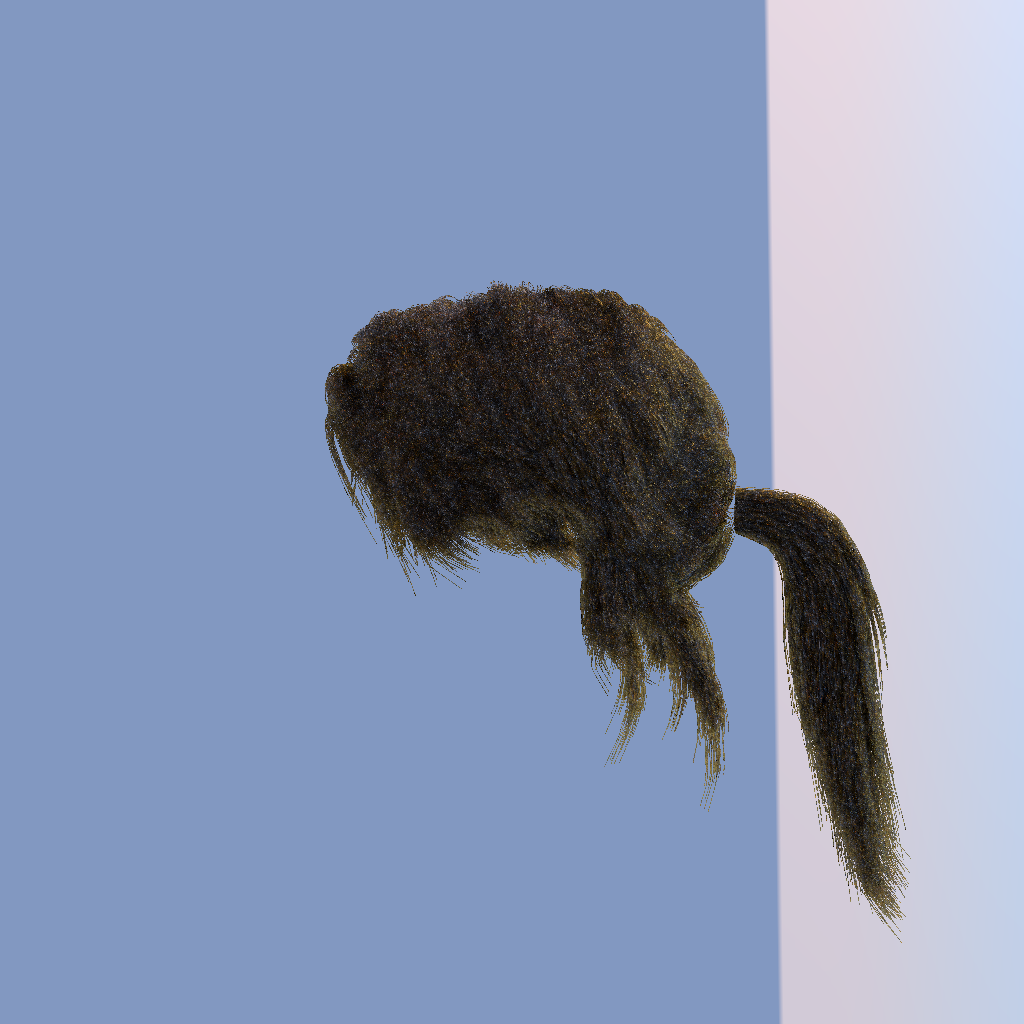
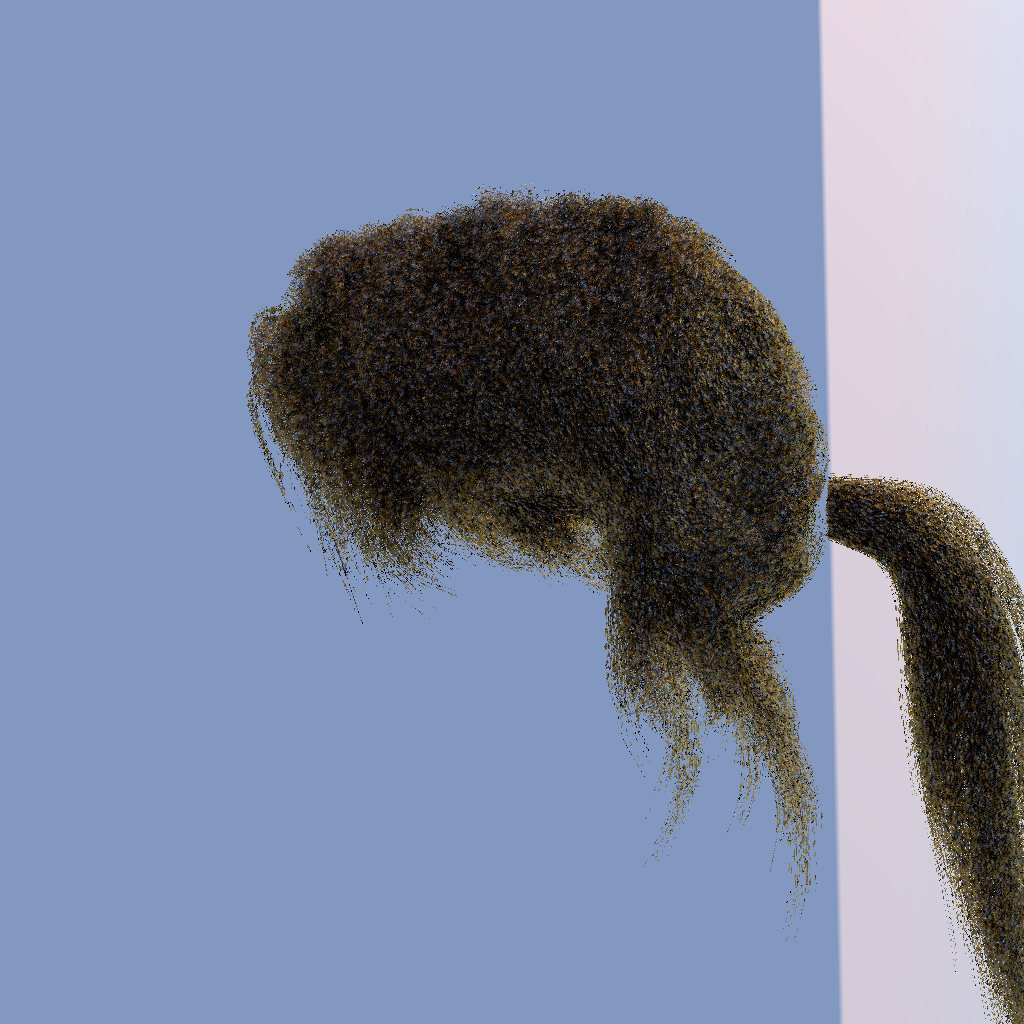
initial

Changed region(s): [[0.2188, 0.0, 1.0, 1.0]]

diff --git a/headers/render_path_tracing.h b/headers/render_path_tracing.h
@@ -55,8 +55,8 @@ struct RenderWindowPT : public owl::viewer::OWLViewer
 
     bool sbtDirty = true;
     bool progressive = true;
-    bool fitGBuffer = false;
-    bool denoiseEnabled = false;
+    bool fitGBuffer = true;
+    bool denoiseEnabled = true;
 
     OWLRayGen rayGen{ 0 };
     OWLRayGen fitGBufferPass{0};
@@ -80,7 +80,7 @@ struct RenderWindowPT : public owl::viewer::OWLViewer
     float weightThreshold = 0.15f;
     float tangentThreshold = 0.9f;
     float fitDeltaThreshold = 1.5f;
-    int targetSpp = 1;
+    int targetSpp = 3;
     
 
     // Hair geometry and its parameters
